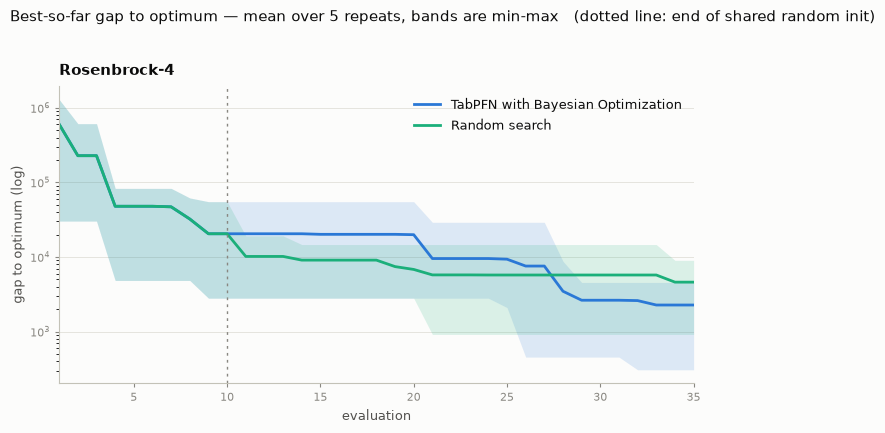
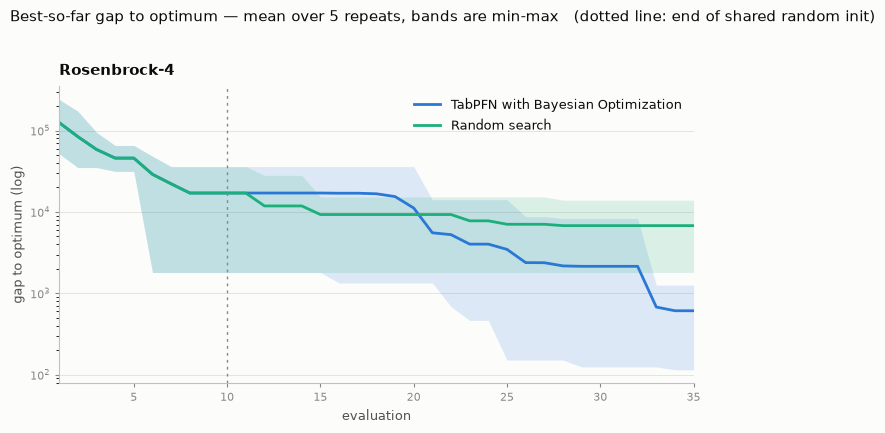
Detect model-dependent notebooks from install lines, revert Bayesian optimization refresh
The runner now selects every notebook whose install line includes tabpfn,
tabpfn-client or tabpfn-extensions, with a small exclusion for the
version-comparison cookbooks, instead of a hardcoded slug list. The Bayesian
optimization notebook goes back to main so its changed results can be reviewed
separately. The README no longer documents the rerun flow; releases are handled
manually.

diff --git a/scripts/rerun_notebooks.py b/scripts/rerun_notebooks.py
@@ -48,24 +48,15 @@ COLAB_SHIM_DIR = SCRIPTS_DIR / "colab_shim"
 EXECUTOR = SCRIPTS_DIR / "_execute_notebook.py"
 WORK_DIR = ROOT / ".rerun"
 
-# Notebooks whose saved outputs come from a TabPFN model (hosted API or the
-# local ``tabpfn`` package) and therefore change with every model release.
-# The remaining notebooks train their own model or use a separate stack.
-MODEL_DEPENDENT_SLUGS = (
-    "quickstart",
-    "insurance_claim_modeling",
-    "predictive_distribution",
-    "tabpfn_vs_xgboost",
-    "experiment_with_thinking_mode",
-    "generate_synthetic_data",
-    "faster_performance_with_cache",
-    "forecast_spare_parts_demand",
-    "bayesian_optimization",
-    "interpret_results",
-    "decoder_readout",
-)
-# Not in the list: time_series_interpretability. tabpfn-time-series loads its
-# own time-series checkpoint, so the default model release does not affect it.
+# A notebook's saved outputs change with a model release when it installs one
+# of these packages, i.e. it runs the default TabPFN model directly. Notebooks
+# that bring their own model (nanoTabPFN, TabPFN-Rel, tabpfn-time-series with
+# its pinned checkpoint) install none of them and are skipped automatically.
+MODEL_PACKAGES = frozenset({"tabpfn", "tabpfn-client", "tabpfn-extensions"})
+
+# Cookbooks that compare model versions on purpose. Their outputs must stay as
+# recorded, so they are excluded from the default run.
+COMPARISON_SLUGS = frozenset({"tabpfn_35_vs_baselines", "zomato_model_comparison"})
 
 # Packages the in-kernel executor needs on top of the notebook's own. Colab
 # ships ipywidgets, so tqdm and friends expect it. Nothing else is added on
@@ -119,6 +110,15 @@ def pip_requirements(notebook_path: Path) -> list[str]:
                 if token not in specs:
                     specs.append(token)
     return specs
+
+
+def installs_model_package(notebook_path: Path) -> bool:
+    """True when the notebook's pip install lines pull in a TabPFN model package."""
+    for spec in pip_requirements(notebook_path):
+        name = re.split(r"[\[<>=!~;@ ]", spec, maxsplit=1)[0].lower().replace("_", "-")
+        if name in MODEL_PACKAGES:
+            return True
+    return False
 
 
 def pip_only_cell_indices(notebook_path: Path) -> list[int]:
@@ -199,7 +199,11 @@ def main() -> int:
             for path in discover_slug_paths(NOTEBOOKS_DIR, extension=".ipynb", slug=slug, label="notebook")
         ]
     else:
-        paths = [NOTEBOOKS_DIR / f"{slug}.ipynb" for slug in MODEL_DEPENDENT_SLUGS]
+        paths = [
+            path
+            for path in discover_slug_paths(NOTEBOOKS_DIR, extension=".ipynb", label="notebook")
+            if path.stem not in COMPARISON_SLUGS and installs_model_package(path)
+        ]
     paths = [path for path in paths if path.stem not in set(args.skip)]
     missing = [path.name for path in paths if not path.exists()]
     if missing:

diff --git a/README.md b/README.md
@@ -74,28 +74,6 @@ Same-repo PRs get a Mintlify docs preview comment when opened; fork PRs still ge
 | `uv run python scripts/convert_to_markdown.py --slug <slug>` | After editing a notebook (or `--all`) |
 | `uv run python scripts/process_markdown.py --slug <slug>` | After editing `authors` / `colab_url` on a markdown-only recipe |
 | `uv run python scripts/validate.py --all` | Before opening or updating a PR |
-| `uv run python scripts/rerun_notebooks.py` | After a TabPFN model release, to refresh saved outputs |
-
-### Refresh notebook outputs
-
-Saved outputs go stale when a new TabPFN model ships. `scripts/rerun_notebooks.py` re-executes notebooks headlessly, writes the fresh outputs back into the `.ipynb`, and regenerates the MDX:
-
-```bash
-export TABPFN_TOKEN=...                                   # hosted-API notebooks need it
-uv run python scripts/rerun_notebooks.py                  # every notebook whose outputs depend on the model
-uv run python scripts/rerun_notebooks.py --slug quickstart --slug tabpfn_vs_xgboost
-uv run python scripts/rerun_notebooks.py --all --skip pretrain_nanotabpfn --keep-going
-```
-
-How it works:
-
-- Each notebook runs in its own `uv run` environment built from the notebook's `pip install` line, on Python 3.12 like Colab. Install-only cells are skipped and their outputs cleared.
-- `google.colab.userdata` is replaced by a shim (`scripts/colab_shim/`) that reads the secret from the environment variable of the same name.
-- Local-inference notebooks use the GPU when one is available. Timings in the outputs then reflect that machine rather than Colab's, so check the prose still matches.
-- A failed run leaves the notebook untouched and writes the partially executed copy to `.rerun/`.
-- To run against a staging API or local weights, pass the override through the environment (`TABPFN_CLIENT_API_URL`, `TABPFN_MODEL_CACHE_DIR`) rather than editing the notebook.
-
-The list of model-dependent notebooks lives in `MODEL_DEPENDENT_SLUGS` in the script. Review the diff before committing. The packages that produced the outputs are the newest releases at the time of the run, since nothing is pinned; note the run date in the commit message.
 
 ### Optional frontmatter extras
 
